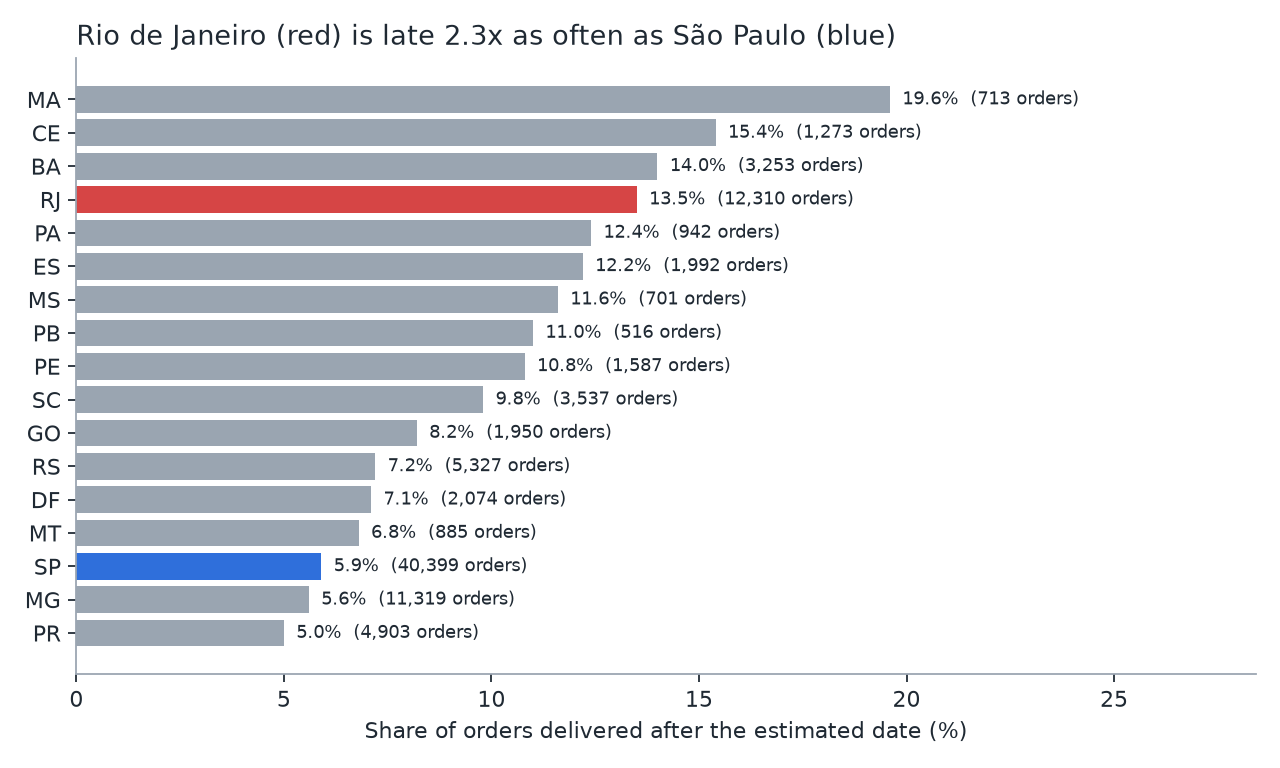
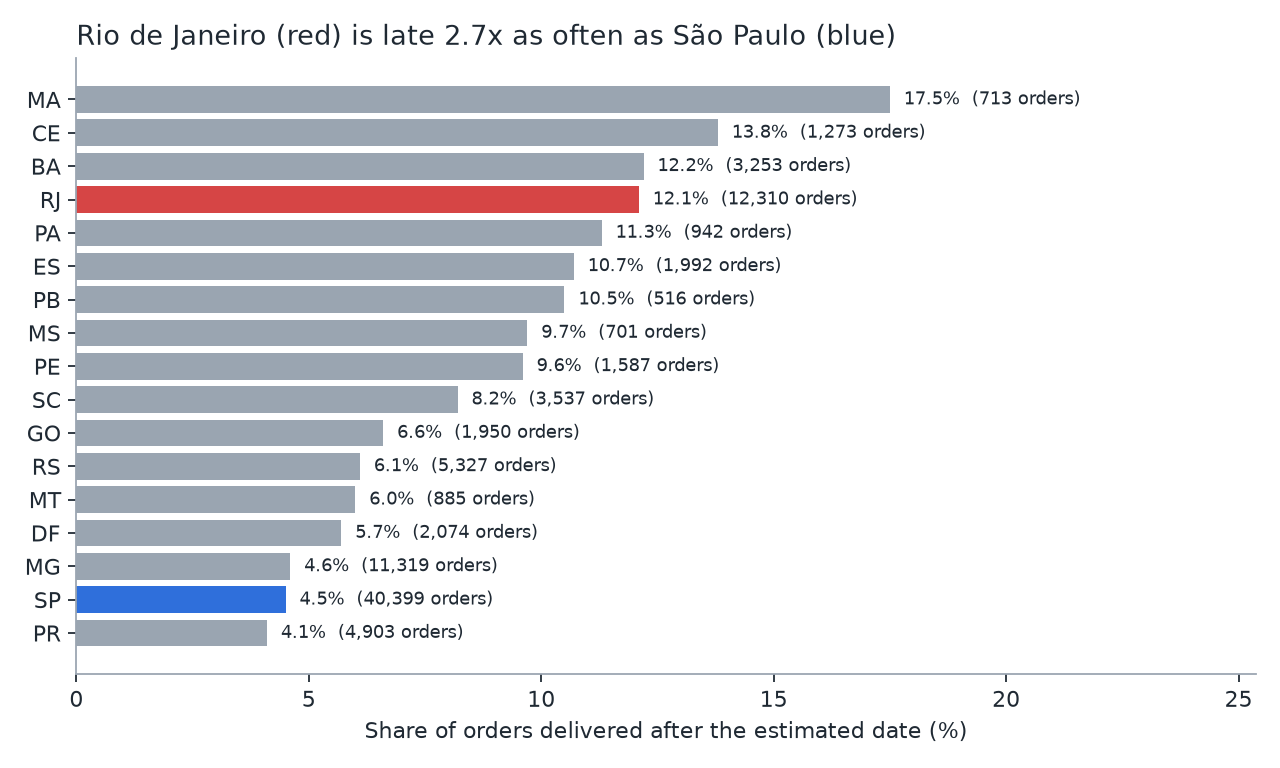
Use one date-based late-delivery definition in 02 and 03
03_late_by_state compared timestamps, but the estimated delivery date is
stored at 00:00:00, so orders delivered on the estimated day counted as
late. 02 compares dates and counts them as on time, so the README mixed
two definitions (6.7% overall vs ~8.0% implied by the state rates).

Switch 03 to 02's date comparison and regenerate its table and chart.
RJ 13.5% -> 12.1%, SP 5.9% -> 4.5%, RJ/SP ratio 2.3x -> 2.7x; the
~940 avoidable RJ orders are unchanged. The chart title now computes
the ratio from the data, and the README states the definition.

diff --git a/src/run_analysis.py b/src/run_analysis.py
@@ -81,7 +81,9 @@ def chart_states(df: pd.DataFrame) -> None:
         ax.text(rate + 0.3, y, f"{rate:.1f}%  ({n:,} orders)", va="center", fontsize=8, color=INK)
     ax.set_xlabel("Share of orders delivered after the estimated date (%)")
     ax.set_xlim(0, df["late_rate_pct"].max() * 1.45)
-    ax.set_title("Rio de Janeiro (red) is late 2.3x as often as São Paulo (blue)", loc="left", color=INK)
+    rates = df.set_index("customer_state")["late_rate_pct"]
+    ax.set_title(f"Rio de Janeiro (red) is late {rates['RJ'] / rates['SP']:.1f}x as often as São Paulo (blue)",
+                 loc="left", color=INK)
     fig.tight_layout()
     fig.savefig(FIG_DIR / "03_late_rate_by_state.png", dpi=160)
     plt.close(fig)

diff --git a/README.md b/README.md
@@ -17,9 +17,12 @@ An end-to-end business analysis of ~96,000 delivered orders from Olist, a Brazil
 |---|---|---|
 | 1 | Orders grew **+140% YoY** (Jan–Aug 2018 vs 2017), but monthly volume **plateaued at ~6–7k orders through 2018**. | `sql/01_growth.sql` |
 | 2 | **6.7%** of orders arrive after the promised date. Being just **1–3 days late drops the average review from 4.29 to 3.29**; 4–7 days late, 68% of reviews are 1–2 stars. | `sql/02_delivery_vs_review.sql` |
-| 3 | Late deliveries concentrate in **Rio de Janeiro (13.5% late, 12k orders)** and the Northeast (MA 19.6%, CE 15.4%, BA 14.0%), vs 5.9% in São Paulo. If RJ matched SP, **~940 late orders** would have been avoided over the period. | `sql/03_late_by_state.sql` |
+| 3 | Late deliveries concentrate in **Rio de Janeiro (12.1% late, 12k orders)** and the Northeast (MA 17.5%, CE 13.8%, BA 12.2%), vs 4.5% in São Paulo. If RJ matched SP, **~940 late orders** would have been avoided over the period. | `sql/03_late_by_state.sql` |
 | 4 | Only **3.0%** of customers ever place a second order. | `sql/04_repeat_purchase.sql` |
 | 5 | Surprisingly, first-order satisfaction barely moves repeat rate (**2.7%** after a 1-star first order vs **3.1%** after 5 stars). Low retention is not mainly an experience problem. | `sql/05_first_review_vs_repeat.sql` |
+
+"Late" means delivered on a later calendar day than the estimated delivery date; delivery on the estimated day
+counts as on time. Findings 2 and 3 use this same definition.
 
 ![Monthly orders](reports/figures/01_monthly_orders.png)
 ![Delay vs review](reports/figures/02_delay_vs_review.png)
@@ -69,7 +72,7 @@ Data: [Brazilian E-Commerce Public Dataset by Olist](https://www.kaggle.com/data
 用 SQL 和 Python 分析巴西电商平台 Olist 约 9.6 万笔已送达订单（2017 年 1 月至 2018 年 8 月），回答三个业务问题：
 
 - **增长**：2018 年 1–8 月订单同比增长 140%，但全年月订单停在 6–7 千单，增长见顶。
-- **配送体验**：6.7% 的订单晚于承诺日期送达；只晚 1–3 天，平均评分就从 4.29 掉到 3.29。晚到集中在里约（13.5%）和东北部各州，圣保罗只有 5.9%。
+- **配送体验**：6.7% 的订单晚于承诺日期送达（预计当天送达算准时）；只晚 1–3 天，平均评分就从 4.29 掉到 3.29。晚到集中在里约（12.1%）和东北部各州，圣保罗只有 4.5%。
 - **复购**：只有 3.0% 的客户下过第二单；而且首单体验好坏几乎不影响复购（2.7% 对 3.1%），说明复购低主要不是体验问题。
 
 **建议**：对高风险地区给出更保守的预计送达日期并做 A/B 测试；优先改善里约的物流；把复购当成独立问题，从品类购买频率和用户对平台的认知入手。
